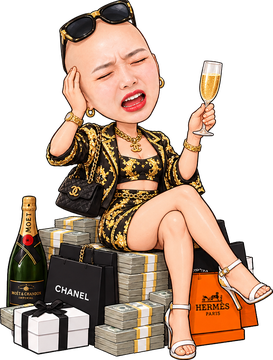
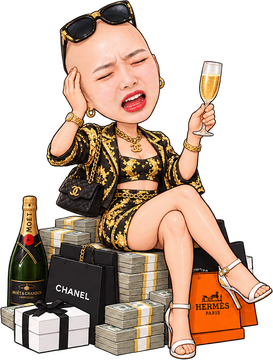
풀소유 에셋 새로 (v0.6.75)
src/full-2 · full-3 을 알파 테두리로 잘라 높이 360 으로 다시 뽑았다.
예전 그림에 있던 흰 스티커 테두리가 없어져 가로세로비와 머리 중심이 조금 달라졌다
(right 0.7806→0.7944, cx 0.565→0.5586).

diff --git a/index.html b/index.html
@@ -1000,7 +1000,7 @@
   const elTitle = document.getElementById("overTitle");
   const coinNote = document.getElementById("coinNote");
 
-  const GAME_VERSION = "v0.6.74";   // 코드를 고칠 때마다 뒤 두 자리를 올린다
+  const GAME_VERSION = "v0.6.75";   // 코드를 고칠 때마다 뒤 두 자리를 올린다
   document.getElementById("ver").textContent = GAME_VERSION;
 
   const LS_NAME = "epjpddongpi_name";
@@ -1420,7 +1420,7 @@
   /* 풀소유 — 무소유가 코인을 연달아 세 개 쥐면 이 모습이 된다.
      다만 우주에서는 우주복이 먼저라, 땅 위에서만 이 차림이 보인다. */
   const SPR_FULL = {
-    right: { img: null, aspect: 0.7806, head: 0.320, cx: 0.565, cy: 0.225, adj: 0.4720 },
+    right: { img: null, aspect: 0.7944, head: 0.320, cx: 0.5586, cy: 0.225, adj: 0.4720 },
     hurt:  { img: null, aspect: 0.7583, head: 0.320, cx: 0.430, cy: 0.215, adj: 0.5133 }
   };
   const SPACE_Z = 6;                 // 오로라 지대 — 여기부터 우주복 차림
